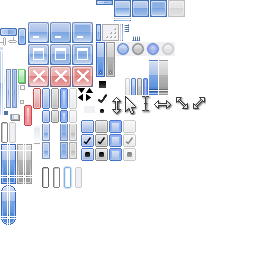
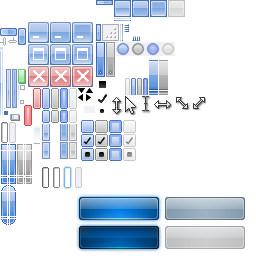
misc gui improvements

Changed region(s): [[0.2812, 0.75, 0.9688, 1.0]]

diff --git a/api/gui.cpp b/api/gui.cpp
@@ -14,7 +14,6 @@
 
 #define STANDARD_BACKGROUND_COLOR (0xFFF0F0F5)
 
-// TODO Prevent flickering during window resize.
 // TODO If a textbox has no focus or last focus and it then gains focus, should all its text be selected?
 
 struct UIImage {
@@ -50,10 +49,17 @@ static UIImage progressBarBackground 	= {{1, 8, 122, 143}, {3, 6, 125, 139}};
 static UIImage progressBarDisabled   	= {{9, 16, 122, 143}, {11, 14, 125, 139}};
 static UIImage progressBarPellet     	= {{18, 26, 69, 84}, {18, 18, 69, 69}};
 
+#if 1
 static UIImage buttonNormal		= {{51, 59, 88, 109}, {51 + 3, 51 + 5, 88 + 10, 88 + 11}};
 static UIImage buttonDragged		= {{9 + 51, 9 + 59, 88, 109}, {9 + 54, 9 + 56, 98, 99}};
 static UIImage buttonHover		= {{-9 + 51, -9 + 59, 88, 109}, {-9 + 54, -9 + 56, 98, 99}};
 static UIImage buttonDisabled		= {{18 + 51, 18 + 59, 88, 109}, {18 + 54, 18 + 56, 98, 99}};
+#else
+static UIImage buttonNormal		= {{86 + 76, 86 + 76 + 86, 194, 194 + 29}, {86 + 76 + 43, 86 + 76 + 44, 194 + 14, 194 + 15}};
+static UIImage buttonDragged		= {{76, 76 + 86, 29 + 194, 29 + 194 + 29}, {76 + 43, 76 + 44, 29 + 194 + 14, 29 + 194 + 15}};
+static UIImage buttonHover		= {{76, 76 + 86, 194, 194 + 29}, {76 + 43, 76 + 44, 194 + 14, 194 + 15}};
+static UIImage buttonDisabled		= {{86 + 76, 86 + 76 + 86, 29 + 194, 29 + 194 + 29}, {86 + 76 + 43, 86 + 76 + 44, 29 + 194 + 14, 29 + 194 + 15}};
+#endif
 
 static UIImage checkboxNormal		= {{95, 108, 120, 133}, {95, 95, 120, 120}};
 static UIImage checkboxDragged		= {{14 + 95, 14 + 108, 120, 133}, {14 + 95, 14 + 95, 120, 120}};
@@ -515,7 +521,7 @@ static OSCallbackResponse ProcessControlMessage(OSObject _object, OSMessage *mes
 			OSAnimateControl(control, message->type == OS_MESSAGE_START_DRAG || message->type == OS_MESSAGE_START_FOCUS);
 
 			if (message->type == OS_MESSAGE_START_DRAG) {
-				if (control->window->focus) {
+				if (control->window->focus && control->window->focus != control) {
 					m.type = OS_MESSAGE_END_FOCUS;
 					OSSendMessage(control->window->focus, &m);
 					control->window->focus = nullptr;
@@ -527,10 +533,13 @@ static OSCallbackResponse ProcessControlMessage(OSObject _object, OSMessage *mes
 						OSSendMessage(control->window->lastFocus, &m);
 					}
 
-					control->window->focus = control;
-					control->window->lastFocus = control;
-					m.type = OS_MESSAGE_START_FOCUS;
-					OSSendMessage(control, &m);
+					if (control != control->window->focus) {
+						control->window->focus = control;
+						control->window->lastFocus = control;
+						m.type = OS_MESSAGE_START_FOCUS;
+						OSSendMessage(control, &m);
+						OSSyscall(OS_SYSCALL_RESET_CLICK_CHAIN, 0, 0, 0, 0);
+					}
 				}
 			}
 		} break;
@@ -864,6 +873,10 @@ OSCallbackResponse ProcessTextboxMessage(OSObject object, OSMessage *message) {
 	} else if (message->type == OS_MESSAGE_START_FOCUS) {
 		control->caretBlink = false;
 		control->window->caretBlinkPause = 2;
+		control->caret.byte = 0;
+		control->caret.character = 0;
+		control->caret2.byte = control->text.bytes;
+		control->caret2.character = control->text.characters;
 	} else if (message->type == OS_MESSAGE_START_DRAG) {
 		FindCaret(control, message->mousePressed.positionX, message->mousePressed.positionY, false, message->mousePressed.clickChainCount);
 		lastClickChainCount = message->mousePressed.clickChainCount;
@@ -1062,8 +1075,13 @@ OSObject OSCreateButton(OSCommand *command) {
 	Control *control = (Control *) OSHeapAllocate(sizeof(Control), true);
 	control->type = API_OBJECT_CONTROL;
 
+#if 1
 	control->preferredWidth = 80;
 	control->preferredHeight = 21;
+#else
+	control->preferredWidth = 86;
+	control->preferredHeight = 29;
+#endif
 
 	control->drawParentBackground = true;
 

diff --git a/kernel/window_manager.cpp b/kernel/window_manager.cpp
@@ -8,12 +8,11 @@
 #define RIGHT_BUTTON (4)
 
 struct Window {
-	void Update();
+	void Update(bool fromUser);
 	void SetCursorStyle(OSCursorStyle style);
 	void NeedWMTimer(int hz);
 	void Destroy();
 	bool Move(OSRectangle &newBounds);
-	void Resize(size_t newWidth, size_t newHeight);
 	void ClearImage();
 
 	Mutex mutex; // Mutex for drawing to the window. Also needed when moving the window.
@@ -25,6 +24,7 @@ struct Window {
 	OSObject apiWindow;
 	OSCursorStyle cursorStyle;
 	int needsTimerMessagesHz, timerMessageTick;
+	bool resizing;
 
 	volatile unsigned handles;
 };
@@ -559,6 +559,7 @@ bool Window::Move(OSRectangle &rectangle) {
 
 		if (oldWidth != width || oldHeight != height) {
 			surface->Resize(width, height);
+			resizing = true; // Don't draw the window again until the API actually requests it.
 		}
 
 		surface->InvalidateRectangle(OS_MAKE_RECTANGLE(0, width, 0, height));
@@ -573,7 +574,7 @@ bool Window::Move(OSRectangle &rectangle) {
 
 	windowManager.mutex.Release();
 
-	if (result) Update();
+	if (result) Update(false);
 	return result;
 }
 
@@ -684,7 +685,10 @@ void WindowManager::Redraw(OSPoint position, int width, int height, Window *exce
 		}
 
 		window->surface->InvalidateRectangle(rectangle);
-		graphics.frameBuffer.Copy(*window->surface, window->position, OS_MAKE_RECTANGLE(0, window->width, 0, window->height), true, window->z + 1);
+
+		if (!window->resizing) {
+			graphics.frameBuffer.Copy(*window->surface, window->position, OS_MAKE_RECTANGLE(0, window->width, 0, window->height), true, window->z + 1);
+		}
 
 		window->surface->mutex.Acquire();
 		window->surface->ClearModifiedRegion();
@@ -692,8 +696,14 @@ void WindowManager::Redraw(OSPoint position, int width, int height, Window *exce
 	}
 }
 
-void Window::Update() {
+void Window::Update(bool fromUser) {
 	mutex.AssertLocked();
+
+	if (fromUser && resizing) {
+		return;
+	}
+
+	resizing = false;
 
 	graphics.frameBuffer.Copy(*surface, position, OS_MAKE_RECTANGLE(0, width, 0, height), true, z + 1);
 	graphics.UpdateScreen();

diff --git a/kernel/ata.cpp b/kernel/ata.cpp
@@ -175,10 +175,6 @@ bool ATADriver::AccessStart(int bus, int slave, uint64_t sector, uintptr_t offse
 
 		if (timeout->event.Poll()) return false;
 
-		// Start the transfer.
-		// TODO Properly investigate the order of starting the DMA transfer and sending the ATA command.
-		// 	Bochs doesn't work if you issue the ATA command first.
-		// 	...and VirtualBox doesn't work if you start the DMA transfer first (except it sometimes does work??).
 		device->WriteBAR8(DMA_REGISTER(bus, DMA_COMMAND), operation == DRIVE_ACCESS_WRITE ? 1 : 9);
 		if (device->ReadBAR8(DMA_REGISTER(bus, DMA_STATUS)) & 2) return false;
 		if (ProcessorIn8(ATA_REGISTER(bus, ATA_DCR)) & 33) return false;

diff --git a/kernel/syscall.cpp b/kernel/syscall.cpp
@@ -394,7 +394,7 @@ uintptr_t DoSyscall(OSSyscallType index,
 			Defer(currentProcess->handleTable.CompleteHandle(window, argument0));
 
 			window->mutex.Acquire();
-			window->Update();
+			window->Update(true);
 			window->mutex.Release();
 
 			SYSCALL_RETURN(OS_SUCCESS, false);
@@ -1054,6 +1054,11 @@ uintptr_t DoSyscall(OSSyscallType index,
 				if (currentThread->terminating) break;
 			}
 
+			SYSCALL_RETURN(OS_SUCCESS, false);
+		} break;
+
+		case OS_SYSCALL_RESET_CLICK_CHAIN: {
+			windowManager.clickChainCount = 0;
 			SYSCALL_RETURN(OS_SUCCESS, false);
 		} break;
 	}

diff --git a/api/os.h b/api/os.h
@@ -283,6 +283,7 @@ typedef enum OSSyscallType {
 	OS_SYSCALL_CANCEL_IO_REQUEST,
 	OS_SYSCALL_BATCH,
 	OS_SYSCALL_NEED_WM_TIMER,
+	OS_SYSCALL_RESET_CLICK_CHAIN,
 } OSSyscallType;
 
 #define OS_INVALID_HANDLE 		((OSHandle) (0))

diff --git a/kernel/ahci.cpp b/kernel/ahci.cpp
@@ -1,5 +1,6 @@
 // TODO Doesn't work 100% of the time on VirtualBox.
 // 	Timeout related things happen.
+// 	-> Setting AHCI_COMMAND_COUNT to 1 seems to fix it?
 
 #ifndef IMPLEMENTATION
 

diff --git a/api/test.cpp b/api/test.cpp
@@ -422,6 +422,7 @@ extern "C" void ProgramEntry() {
 	}
 
 	OSDisableCommand(window, actionToggleEnabled, false);
+	OSDisableCommand(window, &actionOK, false);
 
 	OSProcessMessages();
 }
